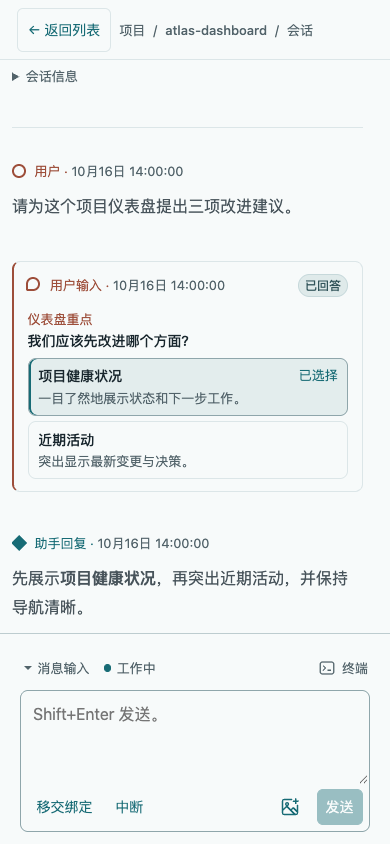
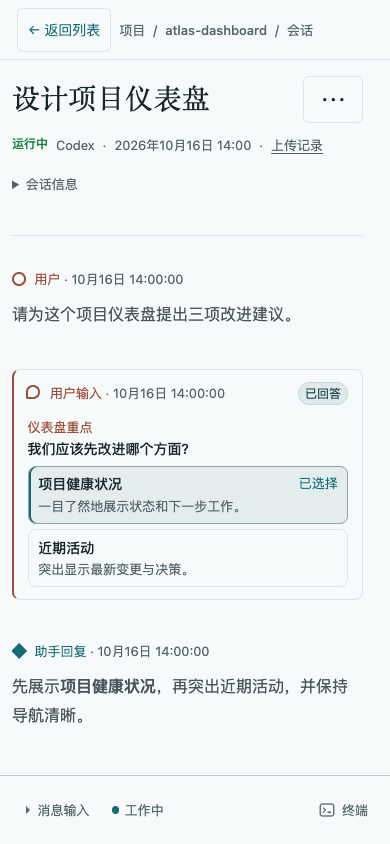
Restore session composer choices and collapse long conversations on entry

diff --git a/tests/client/interaction-region.test.tsx b/tests/client/interaction-region.test.tsx
@@ -888,6 +888,8 @@ it("retains attachment drafts across sessions and failed sends, then sends witho
     target: { files: [new File(["report"], "report.txt")] },
   });
   await screen.findByRole("button", { name: "Remove report.txt" });
+  fireEvent.click(screen.getByRole("button", { name: "Message Input" }));
+  expect(screen.queryByRole("textbox")).not.toBeInTheDocument();
   view.rerender(session("b"));
   expect(screen.queryByRole("button", { name: "Remove report.txt" })).not.toBeInTheDocument();
   view.rerender(session("a"));
@@ -1024,3 +1026,88 @@ it.each(["unbound", "unavailable"] as const)(
     );
   },
 );
+
+describe("composer entry state", () => {
+  function session(id: string, long = false, ready = true) {
+    return (
+      <SessionDraftProvider>
+        <InteractionRegion
+          {...props(interaction("connected"))}
+          key={id}
+          sessionId={id}
+          previewExpanded={false}
+          messagesReady={ready}
+          hasMoreMessages={long}
+        />
+      </SessionDraftProvider>
+    );
+  }
+
+  it("opens short sessions without focus and restores explicit choices ahead of defaults", () => {
+    const view = render(session("short"));
+    expect(screen.getByRole("textbox")).not.toHaveFocus();
+    fireEvent.click(screen.getByRole("button", { name: "Message Input" }));
+    view.rerender(session("other"));
+    expect(screen.getByRole("textbox")).toBeVisible();
+    view.rerender(session("short"));
+    expect(screen.queryByRole("textbox")).not.toBeInTheDocument();
+    fireEvent.click(screen.getByRole("button", { name: "Message Input" }));
+    expect(screen.getByRole("textbox")).toHaveFocus();
+    view.rerender(session("other"));
+    view.rerender(session("short", true));
+    expect(screen.getByRole("textbox")).toBeVisible();
+    expect(screen.getByRole("textbox")).not.toHaveFocus();
+  });
+
+  it("does not save automatic defaults as manual choices", () => {
+    const view = render(session("automatic"));
+    expect(screen.getByRole("textbox")).toBeVisible();
+    view.rerender(session("other"));
+    view.rerender(session("automatic", true));
+    expect(screen.queryByRole("textbox")).not.toBeInTheDocument();
+  });
+
+  it("waits for messages, closes long sessions once and ignores later message updates", () => {
+    const view = render(session("long", false, false));
+    view.rerender(session("long", true));
+    expect(screen.queryByRole("textbox")).not.toBeInTheDocument();
+    view.rerender(session("long", false));
+    expect(screen.queryByRole("textbox")).not.toBeInTheDocument();
+    fireEvent.click(screen.getByRole("button", { name: "Message Input" }));
+    view.rerender(session("other"));
+    view.rerender(session("long", true));
+    expect(screen.getByRole("textbox")).toBeVisible();
+  });
+
+  it("opens text drafts ahead of a saved collapsed choice but permits collapsing during editing", () => {
+    const view = render(session("draft"));
+    fireEvent.change(screen.getByRole("textbox"), { target: { value: "unsent" } });
+    fireEvent.click(screen.getByRole("button", { name: "Message Input" }));
+    expect(screen.queryByRole("textbox")).not.toBeInTheDocument();
+    view.rerender(session("other"));
+    view.rerender(session("draft", true));
+    expect(screen.getByRole("textbox")).toHaveValue("unsent");
+    expect(screen.getByRole("textbox")).not.toHaveFocus();
+  });
+
+  it("uses rendered message height rather than message count", () => {
+    const height = vi.spyOn(HTMLElement.prototype, "clientHeight", "get").mockReturnValue(400);
+    const bounds = vi
+      .spyOn(HTMLElement.prototype, "getBoundingClientRect")
+      .mockReturnValue({ height: 800 } as DOMRect);
+    try {
+      render(
+        <div className="message-scroll">
+          <ol className="timeline">
+            <li>A single long message</li>
+          </ol>
+          <InteractionRegion {...props(interaction("connected"))} previewExpanded={false} />
+        </div>,
+      );
+      expect(screen.queryByRole("textbox")).not.toBeInTheDocument();
+    } finally {
+      height.mockRestore();
+      bounds.mockRestore();
+    }
+  });
+});

diff --git a/src/client/components/InteractionRegion.tsx b/src/client/components/InteractionRegion.tsx
@@ -10,12 +10,15 @@ import type {
 } from "../../shared/api-contract";
 
 import { t } from "../i18n";
+import { useSessionComposerPreference, useSessionDraft } from "../state/session-drafts";
 import { InteractionComposer } from "./InteractionComposer";
 import { InternalLink } from "./InternalLink";
 import { TerminalPreview } from "./TerminalPreview";
 
 interface InteractionRegionProps {
   sessionId: string;
+  messagesReady?: boolean;
+  hasMoreMessages?: boolean;
   dockTarget?: HTMLElement | null;
   recoveryActions?: ReactNode;
   operationStatus?: ReactNode;
@@ -43,6 +46,8 @@ interface InteractionRegionProps {
 
 export function InteractionRegion({
   sessionId,
+  messagesReady = true,
+  hasMoreMessages = false,
   dockTarget,
   recoveryActions,
   operationStatus,
@@ -76,7 +81,28 @@ export function InteractionRegion({
   }, []);
   const interactionAvailable = interaction?.supported === true && interaction.state === "connected";
   const flow = useRef<HTMLDivElement | null>(null);
-  const [composerExpanded, setComposerExpanded] = useState(true);
+  const preference = useSessionComposerPreference(sessionId);
+  const { message, attachments } = useSessionDraft(sessionId);
+  const hasDraft = message.length > 0 || attachments.length > 0;
+  const [composerExpanded, setComposerExpanded] = useState<boolean | null>(null);
+  const [composerFocusRequest, setComposerFocusRequest] = useState(0);
+  const inputExpanded = composerExpanded ?? true;
+  useLayoutEffect(() => {
+    if (composerExpanded !== null || !messagesReady || !interactionAvailable) return;
+    const scroll = flow.current?.closest<HTMLElement>(".message-scroll");
+    const timeline = scroll?.querySelector<HTMLElement>(".timeline");
+    const longConversation =
+      hasMoreMessages ||
+      (!!scroll && !!timeline && timeline.getBoundingClientRect().height > scroll.clientHeight);
+    setComposerExpanded(hasDraft || (preference.expanded ?? !longConversation));
+  }, [
+    composerExpanded,
+    messagesReady,
+    interactionAvailable,
+    hasMoreMessages,
+    hasDraft,
+    preference.expanded,
+  ]);
   const scrollToEnd = () => {
     const scroll = flow.current?.closest<HTMLElement>(".message-scroll");
     scroll?.scrollTo({ top: scroll.scrollHeight, behavior: "instant" });
@@ -144,8 +170,13 @@ export function InteractionRegion({
             <button
               type="button"
               className="composer-toggle"
-              aria-expanded={composerExpanded}
-              onClick={() => setComposerExpanded((value) => !value)}
+              aria-expanded={inputExpanded}
+              onClick={() => {
+                const expanded = !inputExpanded;
+                setComposerExpanded(expanded);
+                preference.setExpanded(expanded);
+                if (expanded) setComposerFocusRequest((value) => value + 1);
+              }}
             >
               <svg
                 className="composer-toggle-icon"
@@ -155,7 +186,7 @@ export function InteractionRegion({
                 fill="currentColor"
                 aria-hidden="true"
               >
-                <path d={composerExpanded ? "M0 2h8L4 6z" : "M2 0v8l4-4z"} />
+                <path d={inputExpanded ? "M0 2h8L4 6z" : "M2 0v8l4-4z"} />
               </svg>
               <span>{t("inputArea")}</span>
             </button>
@@ -225,7 +256,8 @@ export function InteractionRegion({
             sessionId={sessionId}
             interactionAvailable={interactionAvailable}
             interactionBusy={interactionBusy}
-            composerExpanded={composerExpanded}
+            composerExpanded={inputExpanded}
+            composerFocusRequest={composerFocusRequest}
             previewExpanded={previewExpanded}
             error={error}
             errorDetail={errorDetail}

diff --git a/src/client/state/session-drafts.tsx b/src/client/state/session-drafts.tsx
@@ -15,11 +15,33 @@ function useDraftStore() {
   return useState(() => new Map<string, SessionDraft>());
 }
 
+function useComposerStore() {
+  return useState(() => new Map<string, boolean>());
+}
+
+const SessionComposerContext = createContext<ReturnType<typeof useComposerStore> | null>(null);
+
+export function useSessionComposerPreference(sessionId: string) {
+  const localStore = useComposerStore();
+  const [preferences, setPreferences] = useContext(SessionComposerContext) ?? localStore;
+  return {
+    expanded: preferences.get(sessionId),
+    setExpanded: (expanded: boolean) => {
+      setPreferences((current) => new Map(current).set(sessionId, expanded));
+    },
+  };
+}
+
 const SessionDraftContext = createContext<ReturnType<typeof useDraftStore> | null>(null);
 
 export function SessionDraftProvider({ children }: { children: ReactNode }) {
   const store = useDraftStore();
-  return <SessionDraftContext value={store}>{children}</SessionDraftContext>;
+  const composerStore = useComposerStore();
+  return (
+    <SessionDraftContext value={store}>
+      <SessionComposerContext value={composerStore}>{children}</SessionComposerContext>
+    </SessionDraftContext>
+  );
 }
 
 export function useSessionDraft(sessionId: string) {

diff --git a/src/client/components/InteractionComposer.tsx b/src/client/components/InteractionComposer.tsx
@@ -18,6 +18,7 @@ export function InteractionComposer({
   interactionAvailable,
   interactionBusy,
   composerExpanded,
+  composerFocusRequest,
   previewExpanded,
   error,
   errorDetail,
@@ -32,6 +33,7 @@ export function InteractionComposer({
   interactionAvailable: boolean;
   interactionBusy: boolean;
   composerExpanded: boolean;
+  composerFocusRequest: number;
   previewExpanded: boolean;
   error: string | null;
   errorDetail?: unknown;
@@ -56,11 +58,9 @@ export function InteractionComposer({
   const { message, setMessage, attachments, addAttachment, removeAttachment, clearSentMessage } =
     useSessionDraft(sessionId);
   const composer = useRef<HTMLTextAreaElement | null>(null);
-  const wasComposerExpanded = useRef(composerExpanded);
   useEffect(() => {
-    if (composerExpanded && !wasComposerExpanded.current) composer.current?.focus();
-    wasComposerExpanded.current = composerExpanded;
-  }, [composerExpanded]);
+    if (composerFocusRequest > 0) composer.current?.focus();
+  }, [composerFocusRequest]);
   useEffect(() => {
     const blurWhenHidden = () => {
       if (document.hidden && document.activeElement === composer.current) composer.current?.blur();

diff --git a/src/client/components/SessionInteraction.tsx b/src/client/components/SessionInteraction.tsx
@@ -15,6 +15,8 @@ interface SessionInteractionProps {
   interaction: InteractionResponse | null;
   onNavigate?: (sessionId: string) => void;
   sessionId: string;
+  messagesReady?: boolean;
+  hasMoreMessages?: boolean;
   onMessagePreview?: (message: string) => () => void;
   previewAutoExpandKey?: string | null;
 }
@@ -27,6 +29,8 @@ export function SessionInteraction({
   interaction,
   onNavigate,
   sessionId,
+  messagesReady,
+  hasMoreMessages,
   onMessagePreview,
   previewAutoExpandKey = null,
 }: SessionInteractionProps) {
@@ -60,6 +64,8 @@ export function SessionInteraction({
     <InteractionRegion
       key={sessionId}
       sessionId={sessionId}
+      messagesReady={messagesReady}
+      hasMoreMessages={hasMoreMessages}
       dockTarget={dockTarget}
       recoveryActions={recoveryActions}
       operationStatus={operationStatus}

diff --git a/src/client/components/SessionReader.tsx b/src/client/components/SessionReader.tsx
@@ -188,6 +188,8 @@ export function SessionReader({
                 interaction={interaction}
                 onNavigate={onNavigate}
                 sessionId={context.session.id}
+                messagesReady={!readerLoading}
+                hasMoreMessages={hasMore}
                 onMessagePreview={showMessagePreview}
                 previewAutoExpandKey={previewAutoExpandKey}
               />

diff --git a/tests/client/interaction-composer.test.tsx b/tests/client/interaction-composer.test.tsx
@@ -16,6 +16,7 @@ function props() {
     interactionAvailable: true,
     interactionBusy: false,
     composerExpanded: true,
+    composerFocusRequest: 0,
     previewExpanded: false,
     error: null,
     onDismissError: vi.fn(),
